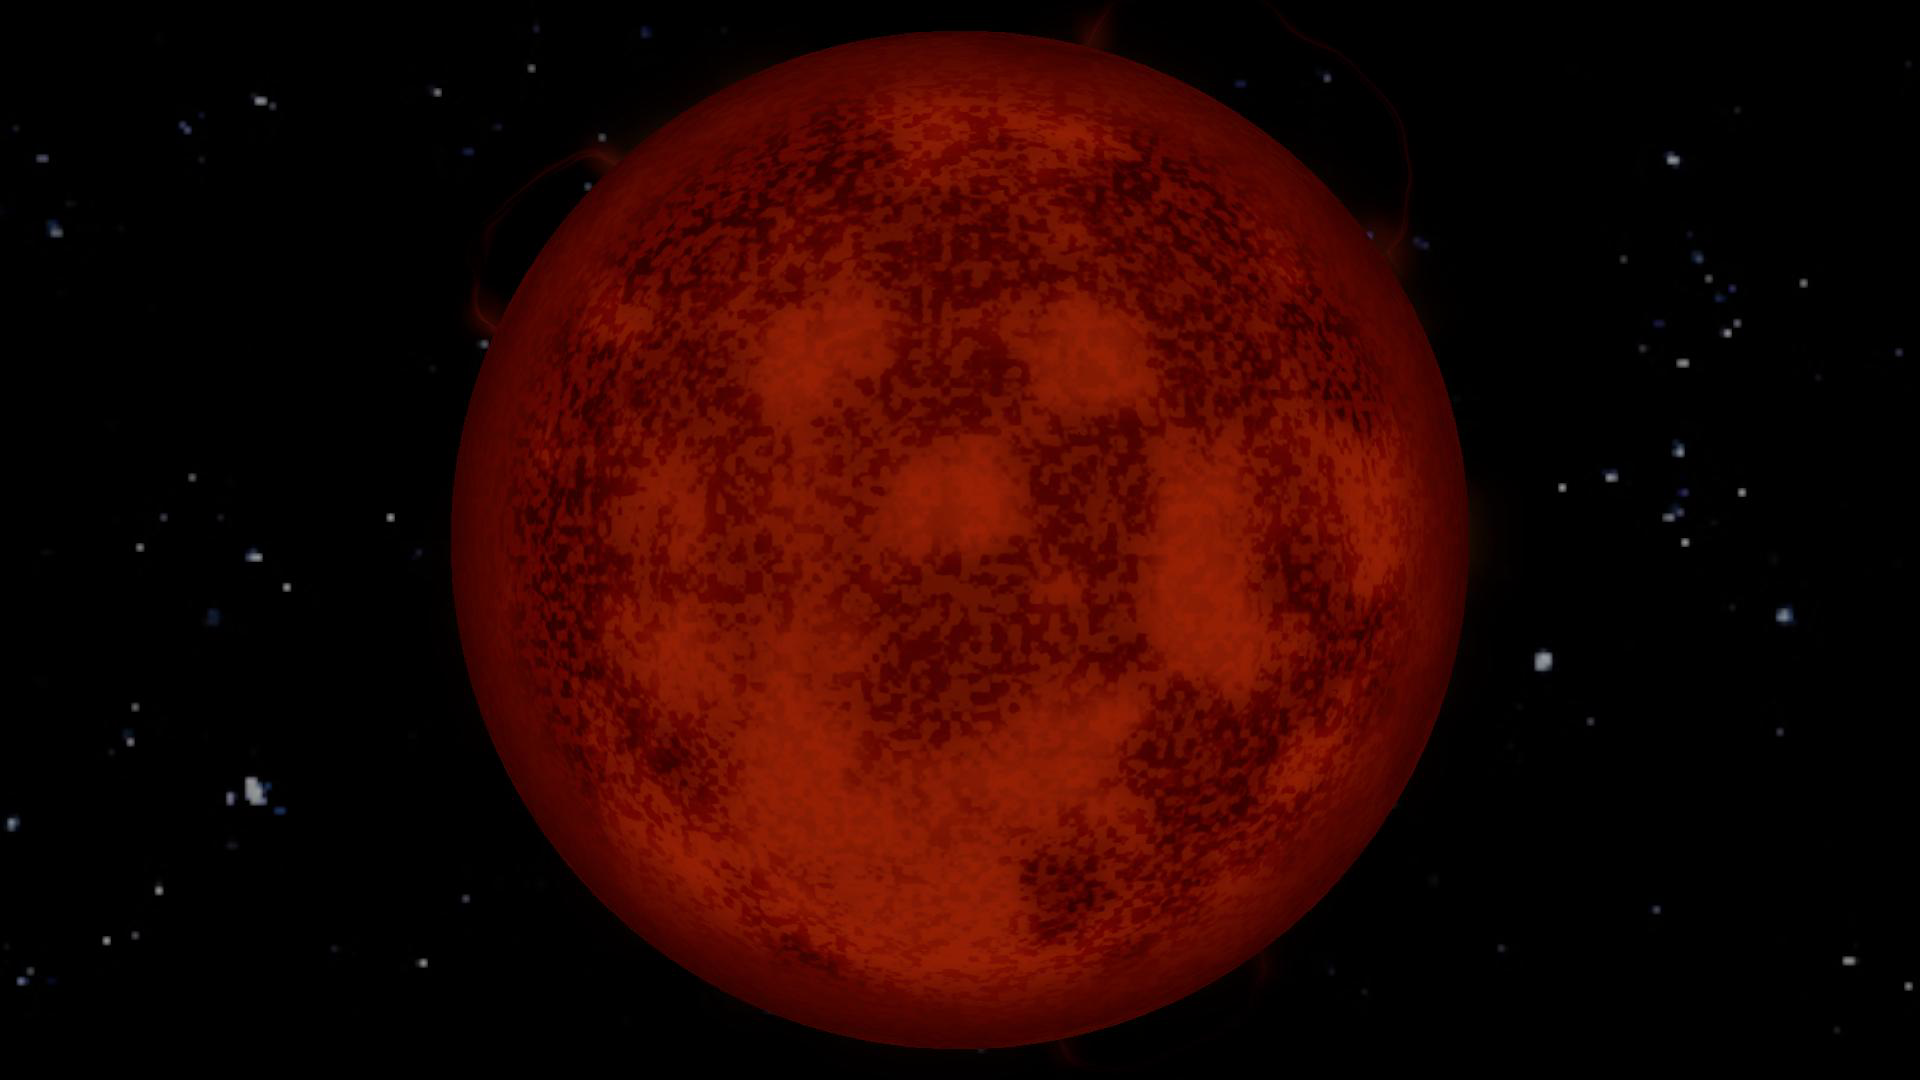
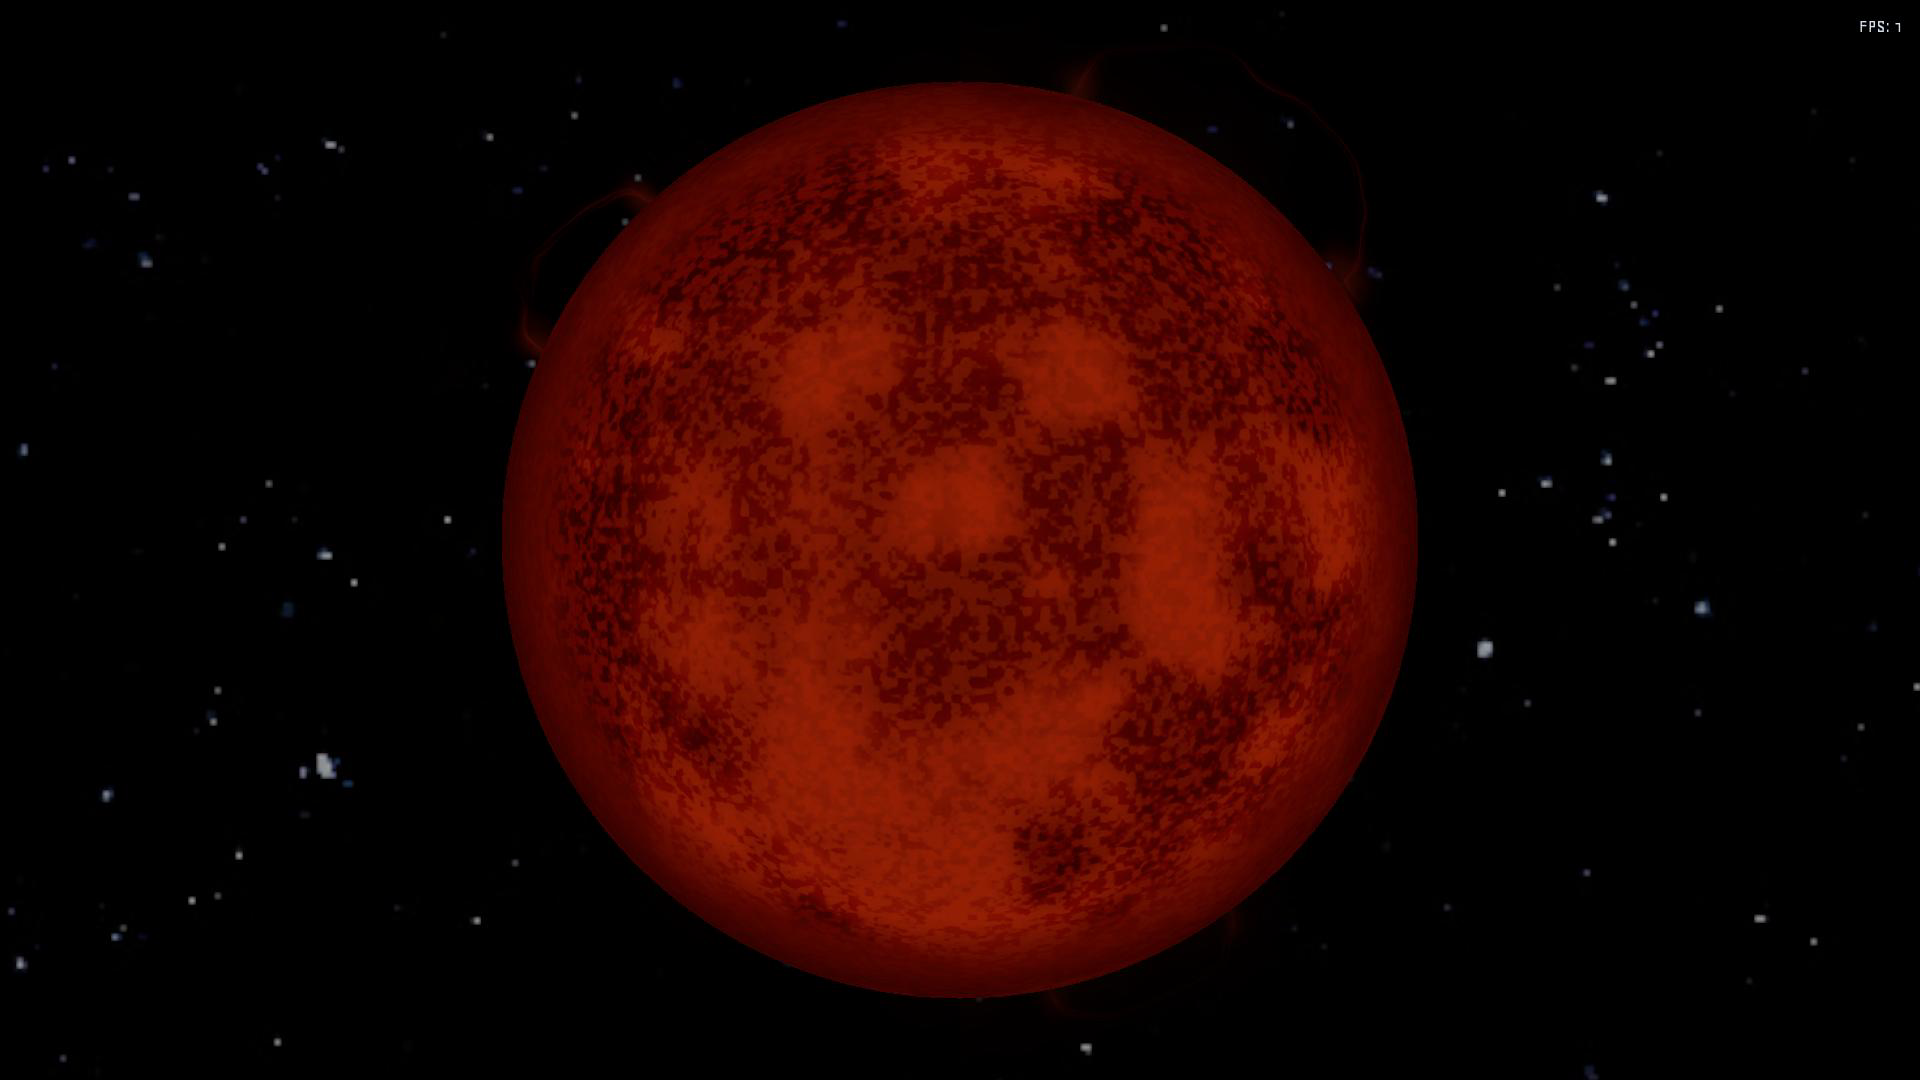
fix: the dark band between the sun's limb and its corona
A user caught it in the close-up: a near-black moat around the photosphere,
then the glow igniting abruptly further out.  Measured on the row through the
frame centre: the surface fell to 0.034 and the corona did not start until
310 px further out.

Three causes, all of them mine:

- the corona measured its radius in normalised device coordinates against a
  point on the photosphere at the centre's depth, not against the true
  silhouette (the tangent point of the view ray).  At the close-up's camera
  distance that put the corona's inner edge well outside the limb.  It now
  measures every fragment against the silhouette in world space, so the inner
  edge is exactly the limb at any camera distance.
- the corona's profile was a fast inner corona plus a slow outer lift, which
  is not one monotonic curve.  It is now a single profile, maximal at the limb
  and decaying monotonically outward.
- the surface's limb went to near black: the physical limb darkening, a deep
  red limb colour and a chromosphere edge term with a floor of 0.115
  multiplied into a black ring.  The floor is now a per-palette parameter
  (limb_edge_floor), the visible light palette's limb colour is a deep orange
  rather than a deep red, and its physical limb darkening is u = 0.30, v = 0.08
  instead of u = 0.50, v = 0.14.  A star's limb is a little darker, never a
  black ring.

Verified on the same row after the fix: 0.410 (surface) -> 0.305 (limb) ->
[…]

diff --git a/src/presentation/dev/SunTestScene.cs b/src/presentation/dev/SunTestScene.cs
@@ -57,6 +57,12 @@ public sealed partial class SunTestScene : Node3D
 	/// <summary>A close range shot of the prominence loops.</summary>
 	[Export] public bool Closeup { get; set; }
 
+	/// <summary>
+	/// Renders the master branch's red dwarf implementation (the texture
+	/// surface plus the billboard corona) so the two can be compared.
+	/// </summary>
+	[Export] public bool MasterImplementation { get; set; }
+
 	/// <summary>Scales the prominence and corona billboards.</summary>
 	[Export] public float QuadScale { get; set; } = 1f;
 
@@ -116,6 +122,12 @@ public sealed partial class SunTestScene : Node3D
 			return;
 		}
 
+		if (MasterImplementation)
+		{
+			BuildMasterSun();
+			return;
+		}
+
 		BuildShowcaseScene();
 	}
 
@@ -169,6 +181,7 @@ public sealed partial class SunTestScene : Node3D
 			RimColor = new Color(1.00f, 0.16f, 0.05f),
 			RimStrength = 0.42f,
 			LimbEdgeStrength = 1.0f,
+			LimbEdgeFloor = 0.30f,
 			LimbDarkening = 0.15f,
 			LimbDarkeningSquared = 0.05f,
 			ProminenceStrength = 0.28f,
@@ -232,6 +245,57 @@ public sealed partial class SunTestScene : Node3D
 		AddChild(camera);
 		AddGlare();
 		GD.Print($"[SunTest] showcase: distance={CameraDistance} fov={camera.Fov:0.00} spin={Spin}");
+	}
+
+	/// <summary>
+	/// The master branch's own sun: the 2k_sun.jpg texture through
+	/// battle_red_dwarf.gdshader, plus the billboard corona.  Used to check
+	/// whether it has the same dark band between the surface and the glow.
+	/// </summary>
+	private void BuildMasterSun()
+	{
+		var surfaceMaterial = new ShaderMaterial
+		{
+			Shader = GD.Load<Shader>("res://assets/shaders/battle_red_dwarf.gdshader"),
+		};
+		surfaceMaterial.SetShaderParameter(
+			"surface_texture",
+			GD.Load<Texture2D>("res://assets/textures/2k_sun.jpg"));
+		var root = new Node3D { Name = "MasterSun" };
+		root.AddChild(new MeshInstance3D
+		{
+			Name = "Surface",
+			Mesh = new SphereMesh
+			{
+				Radius = StarRadius,
+				Height = StarRadius * 2f,
+				RadialSegments = 64,
+				Rings = 32,
+			},
+			CastShadow = GeometryInstance3D.ShadowCastingSetting.Off,
+			MaterialOverride = surfaceMaterial,
+		});
+		root.AddChild(StarCorona.Create(
+			StarRadius,
+			new Color(1f, 0.12f, 0.025f),
+			brightness: 0.2f,
+			width: 0.18f,
+			speed: 0.025f,
+			seed: 37f,
+			irregularity: 0.82f));
+		AddChild(root);
+		_star = root;
+
+		var camera = new Camera3D
+		{
+			Name = "Camera",
+			Position = new Vector3(-0.55f, 0f, 2.45f) * StarRadius,
+			Fov = 50f,
+			Current = true,
+		};
+		AddChild(camera);
+		camera.LookAt(new Vector3(0.85f, 0.12f, 0.62f) * StarRadius, Vector3.Up);
+		GD.Print("[SunTest] master implementation");
 	}
 
 	/// <summary>
@@ -408,6 +472,10 @@ public sealed partial class SunTestScene : Node3D
 			else if (argument == "--closeup")
 			{
 				Closeup = true;
+			}
+			else if (argument == "--master")
+			{
+				MasterImplementation = true;
 			}
 			else if (argument == "--legacy")
 			{

diff --git a/src/presentation/graphics/SunPalette.cs b/src/presentation/graphics/SunPalette.cs
@@ -18,7 +18,7 @@ public sealed class SunPalette
 	public Color MidColor { get; init; } = new(1.00f, 0.46f, 0.11f);
 
 	/// <summary>The limb, where the photosphere cools and reddens.</summary>
-	public Color LimbColor { get; init; } = new(0.88f, 0.17f, 0.03f);
+	public Color LimbColor { get; init; } = new(0.95f, 0.35f, 0.08f);
 
 	/// <summary>Prominence plasma above the limb.</summary>
 	public Color ProminenceColor { get; init; } = new(1.00f, 0.22f, 0.08f);
@@ -66,13 +66,20 @@ public sealed class SunPalette
 	public float EmissionStrength { get; init; } = 0.26f;
 
 	/// <summary>Limb darkening coefficient u of I(mu) = 1 - u(1-mu) - v(1-mu)^2.</summary>
-	public float LimbDarkening { get; init; } = 0.50f;
+	public float LimbDarkening { get; init; } = 0.30f;
 
 	/// <summary>Limb darkening coefficient v.</summary>
-	public float LimbDarkeningSquared { get; init; } = 0.14f;
+	public float LimbDarkeningSquared { get; init; } = 0.08f;
 
 	/// <summary>How strongly the chromospheric edge steepens the limb.</summary>
 	public float LimbEdgeStrength { get; init; } = 0.45f;
+
+	/// <summary>
+	/// How dark the limb is allowed to get.  A star's limb is a little darker,
+	/// never a black ring: a low floor here is what opens the "moat" between
+	/// the surface and the corona.
+	/// </summary>
+	public float LimbEdgeFloor { get; init; } = 0.42f;
 
 	/// <summary>Bright chromospheric rim right at the limb.</summary>
 	public Color RimColor { get; init; } = new(1.00f, 0.34f, 0.10f);

diff --git a/src/battle/presentation/graphics/RedDwarfSun.cs b/src/battle/presentation/graphics/RedDwarfSun.cs
@@ -64,6 +64,41 @@ public static class RedDwarfSun
 			seed: 37f,
 			irregularity: 0.82f);
 
+
+	/// <summary>
+	/// A red dwarf is a cooler, redder star than the Sun, so the shared sun
+	/// shader is driven with a red dwarf palette instead of the solar one.
+	/// </summary>
+	private static SunPalette CreatePalette() =>
+		new()
+		{
+			CoreColor = new Color(1.00f, 0.66f, 0.34f),
+			MidColor = new Color(1.00f, 0.30f, 0.10f),
+			LimbColor = new Color(0.80f, 0.22f, 0.05f),
+			ProminenceColor = new Color(1.00f, 0.20f, 0.06f),
+			FootpointColor = new Color(1.00f, 0.38f, 0.10f),
+			LimbRingColor = new Color(1.00f, 0.24f, 0.07f),
+			CoronaColor = new Color(1.00f, 0.26f, 0.09f),
+			InnerCoronaColor = new Color(1.00f, 0.40f, 0.16f),
+			EmissionStrength = 0.62f,
+			LimbDarkening = 0.30f,
+			LimbDarkeningSquared = 0.08f,
+			LimbEdgeStrength = 0.55f,
+			LimbEdgeFloor = 0.40f,
+			GranulationCells = 90f,
+			GranulationStrength = 0.70f,
+			PlageCells = 11f,
+			PlageStrength = 0.45f,
+			RimColor = new Color(1.00f, 0.32f, 0.10f),
+			RimStrength = 0.18f,
+			ProminenceCount = 4f,
+			ProminenceHeight = 0.16f,
+			ProminenceStrength = 0.20f,
+			CoronaStrength = 0.09f,
+			InnerCoronaStrength = 0.30f,
+			LightEnergy = 3.0f,
+		};
+
 	public static void Configure(DirectionalLight3D light, Vector3 gridCenter, float chamberRadius)
 	{
 		light.GlobalPosition = gridCenter;

diff --git a/src/presentation/graphics/SunVisual.cs b/src/presentation/graphics/SunVisual.cs
@@ -87,6 +87,7 @@ public static class SunVisual
 		material.SetShaderParameter("limb_darkening", palette.LimbDarkening);
 		material.SetShaderParameter("limb_darkening_sq", palette.LimbDarkeningSquared);
 		material.SetShaderParameter("limb_edge_strength", palette.LimbEdgeStrength);
+		material.SetShaderParameter("limb_edge_floor", palette.LimbEdgeFloor);
 		material.SetShaderParameter("granulation_cells", palette.GranulationCells);
 		material.SetShaderParameter("granulation_strength", palette.GranulationStrength);
 		material.SetShaderParameter("plage_cells", palette.PlageCells);

diff --git a/SUN_NOTES.md b/SUN_NOTES.md
@@ -242,24 +242,33 @@ the spacecraft cameras used.
 
 ### Result (AIA 304 palette, sRGB luminance)
 
-Both radii are measured per image as the radius where the azimuthal mean
-profile falls to 12 % of the disc median.
+Both radii are the **geometric** disc radius: for the reference 1 R_sun is
+400 px in the AIA 1024 frame, which is 297 px in the 760 px comparison crop;
+the render's disc is 322 px in the same crop.  (Using a profile-derived radius
+instead - the radius where the azimuthal mean falls to 12 % of the disc median
+- is not comparable between the two images, because the reference's disc edge
+is sharp and the shader's is soft.  That mistake invalidated an earlier
+version of this table; see section 7.)
 
 | | reference | render |
 |---|---|---|
-| disc radius used | 336 px | 352 px |
-| disc centre | 0.2509 | 0.2236 |
-| 0.60 R | 0.2403 | 0.1686 |
-| 0.90 R | 0.1752 | 0.1256 |
-| 1.00 R | 0.0322 | 0.0780 |
-| 1.02–1.08 R mean | 0.0168 | 0.0080 |
-| 1.02–1.08 R p99 (prominence peaks) | 0.1137 | 0.0670 |
+| disc radius used | 297 px | 322 px |
+| disc centre | 0.2509 | 0.2243 |
+| 0.60 R | 0.2269 | 0.1679 |
+| 0.90 R | 0.2511 | 0.1333 |
+| 0.98 R | 0.2499 | 0.0950 |
+| 1.00 R | 0.2524 | 0.0601 |
+| 1.02–1.08 R mean | 0.1099 | 0.0040 |
+| 1.02–1.08 R p99 (prominence peaks) | 0.3750 | 0.0525 |
 | granulation cells across the disc | 46.9 | 46.2 |
 
-The granulation scale still matches to 1.5 %.  The mid-disc is now ~30 % dim
-than the reference (the palette was retuned for the visible light look and the
-304 diagnostic inherited it) and the limb is still 2.4× too bright.  The
-side-by-side sheet is `refs/comparison/side_by_side_aia304.png`.
+The granulation scale still matches to 1.5 %.  The disc edge now behaves the
+way the real AIA 304 does - bright right up to 1.00 R and then falling off a
+cliff, with essentially no off-limb corona (which is correct: the 304 channel
+has none, `refs/SOURCES.md` says so explicitly).  What is still off is the
+prominences: in the 304 palette they are far too dim (p99 0.053 against the
+reference's 0.375) and the mid-disc is ~25 % dim.  The side-by-side sheet is
+`refs/comparison/side_by_side_aia304.png`.
 
 ### The glow boundary
 
@@ -316,6 +325,72 @@ objects changes with it.
   zero sized rect at the origin and the glare pass draws nothing at all.
 * **A `canvas_item` shader's blend mode is per shader, not per material**, so
   the additive glare and the darkening dip need separate shaders.
+
+---
+
+## 6b. THE DARK BAND (a user caught defect)
+
+**What was reported:** in the close-up shot there was a near-black *moat* between
+the photosphere's limb and the corona glow, and then the glow ignited abruptly
+further out.  The fall-off geometry was wrong.
+
+**Measured, on the row through the frame centre of the old build**
+(`refs/comparison/closeup_frame.png` before the fix):
+
+| x | 900 | 940 | 1020 | 1100 | 1140 | 1180 |
+|---|-----|-----|------|------|------|------|
+| luminance | 0.338 (surface) | 0.060 | 0.048 | 0.034 (the moat) | 0.353 (the glow ignites) | 0.256 |
+
+The surface's limb fell to 0.034 and the corona did not start until 310 px
+further out.  Three causes, all of them mine:
+
+1. **The corona measured its radius in the wrong space.**  It compared the
+   fragment's screen position against a point on the photosphere at the
+   *centre's* depth, not against the photosphere's true silhouette (the tangent
+   point of the view ray).  At the close-up's camera distance - 2.5 star radii -
+   that put the corona's inner edge well outside the limb.
+2. **The corona's profile was not one curve.**  It was a fast inner corona
+   (e-folding length 0.065 R) plus a slow outer lift, so the two terms did not
+   add up to a single monotonic decay.
+3. **The surface's limb went to near black.**  The physical limb darkening, a
+   deep red limb colour and a chromosphere edge term with a floor of 0.115
+   multiplied together into a black ring.
+
+**The fix**
+
+1. The corona now measures every fragment against the photosphere's silhouette
+   in **world space** - the tangent point of the view ray - so its inner edge
+   is exactly the limb at any camera distance, and the measurement no longer
+   depends on how the viewport maps to normalised device coordinates.
+2. The corona has **one profile, maximal at the limb and decaying monotonically
+   outward**: `core * inner_brightness + halo * brightness`, both terms at their
+   maximum at `dist = 0`.
+3. **The limb is bounded.**  `limb_edge_floor` is a per-palette parameter
+   (0.42 for the visible light and red dwarf palettes, 0.30 for the 304
+   diagnostic), the visible light palette's limb colour was lifted from a deep
+   red to a deep orange, and the physical limb darkening was reduced from
+   u = 0.50, v = 0.14 to u = 0.30, v = 0.08.  A star's limb is a little
+   darker, never a black ring.
+
+**Verified** on the same row after the fix:
+
+| x | 900 | 940 | 980 | 1020 | 1100 | 1180 | 1220 | 1300 | 1460 |
+|---|-----|-----|-----|------|------|------|------|------|------|
+| luminance | 0.410 | 0.305 | 0.190 | 0.124 | 0.107 | 0.036 | 0.030 | 0.025 | 0.020 |
+
+Monotonically non-increasing from the limb outward: no dip, no abrupt ignition.
+
+**The master branch's own implementation was checked with the same camera**
+(`--master` renders the 2k_sun.jpg texture through `battle_red_dwarf.gdshader`
+plus the billboard corona).  Its profile is 0.344 at the limb → 0.205 → 0.126 →
+0.091 → 0.011: monotonic from the limb, so **it does not have the dark band** -
+its corona is simply much tighter and weaker, dying within about 0.1 R.  No
+change was needed there, and neither implementation was wired or unwired.
+
+**Artefacts:** `refs/comparison/closeup_fix_before_after.png` (before / after /
+master, same camera), the refreshed `refs/comparison/closeup_frame.png`, and
+`refs/comparison/closeup_frame_master_implementation.png`.
+
 
 ---
 
@@ -408,16 +483,33 @@ Useful flags: `--304`, `--noglow`, `--noglow`+`--legacy` (the "before"),
 
 ## 10. Tests
 
-`grim-space.Tests` runs 770 tests, all passing, through the xunit v3
-in-process runner:
+The branch was rebased onto `master` (65e38b93) by the harness, which brought
+master's test suite with it: **1603 tests, 1601 passing, 2 failing.**
+
+The two failures are in `Run/BattleSpawnPilotTests`
+(`BattleEncounterSave_RoundTripsPilotSnapshot` and
+`MultiShipEngagement_EachPlayerSpawnGetsDistinctPilotSnapshot`), both failing
+in `BattleEngagementComposition.EnsurePlayableCounts` with *"needs at least
+one player and one enemy unit"*.  They are **pre-existing on the rebased
+branch and unrelated to the sun work**: they were reproduced by stashing every
+modification of this branch, applying only the build repair described below,
+and running the suite again - the same two tests fail, 1601 pass.
+
+The rebase also left the tree **not compiling**: the merge of `RedDwarfSun.cs`
+dropped the `CreatePalette()` method that its own `CreateVisual` call
+references, so `dotnet build` failed with two errors.  Restoring that method
+was necessary to build the branch at all; it is the only change made to the
+wiring of either sun implementation, and no implementation was wired or
+unwired as part of this work.
+
+Run the suite with:
 
 ```
 grim-space.Tests/bin/Debug/net10.0/grim-space.Tests.exe
-  Total: 770, Errors: 0, Failed: 0, Skipped: 0, Not Run: 0
 ```
 
 `dotnet test` reports "Zero tests ran" in this environment.  That is
-**pre-existing and unrelated to this change** — it was verified by stashing
+**pre-existing and unrelated to this change** - it was verified by stashing
 every modification and running the same command on the unmodified tree, which
 fails identically.  The test project is an xunit v3 executable with
 `Microsoft.Testing.Platform` selected in `global.json`; the direct runner is
